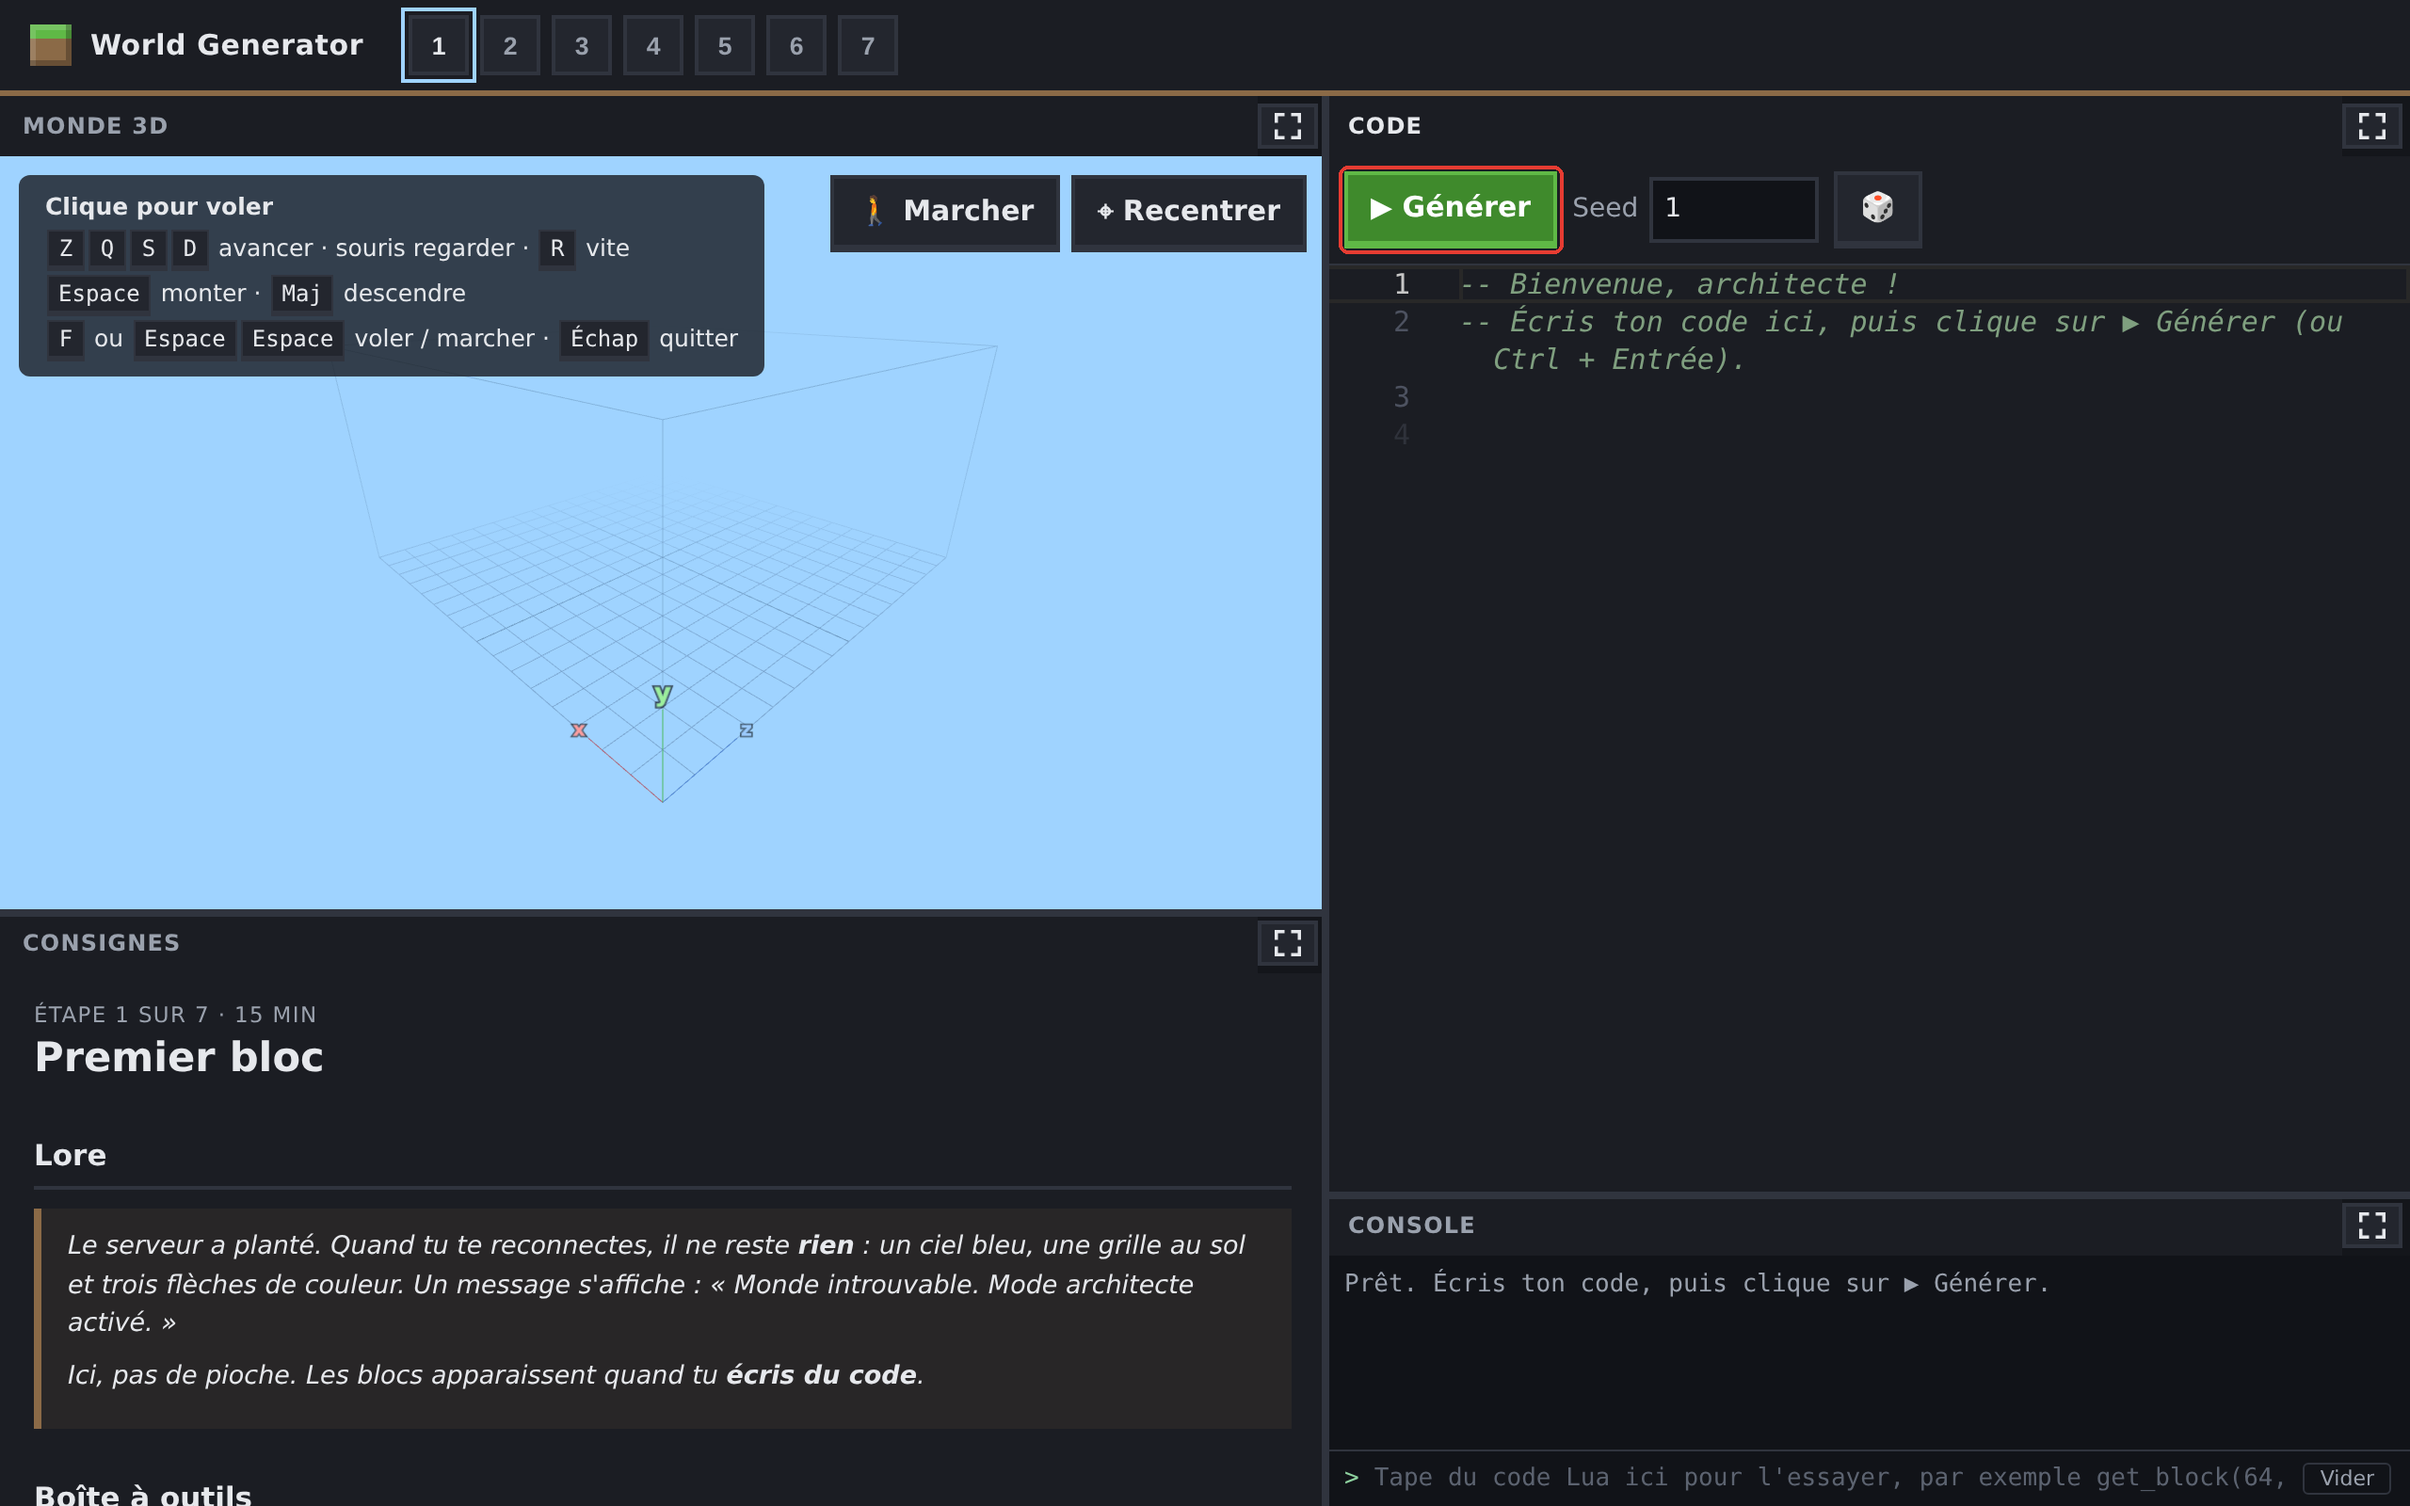
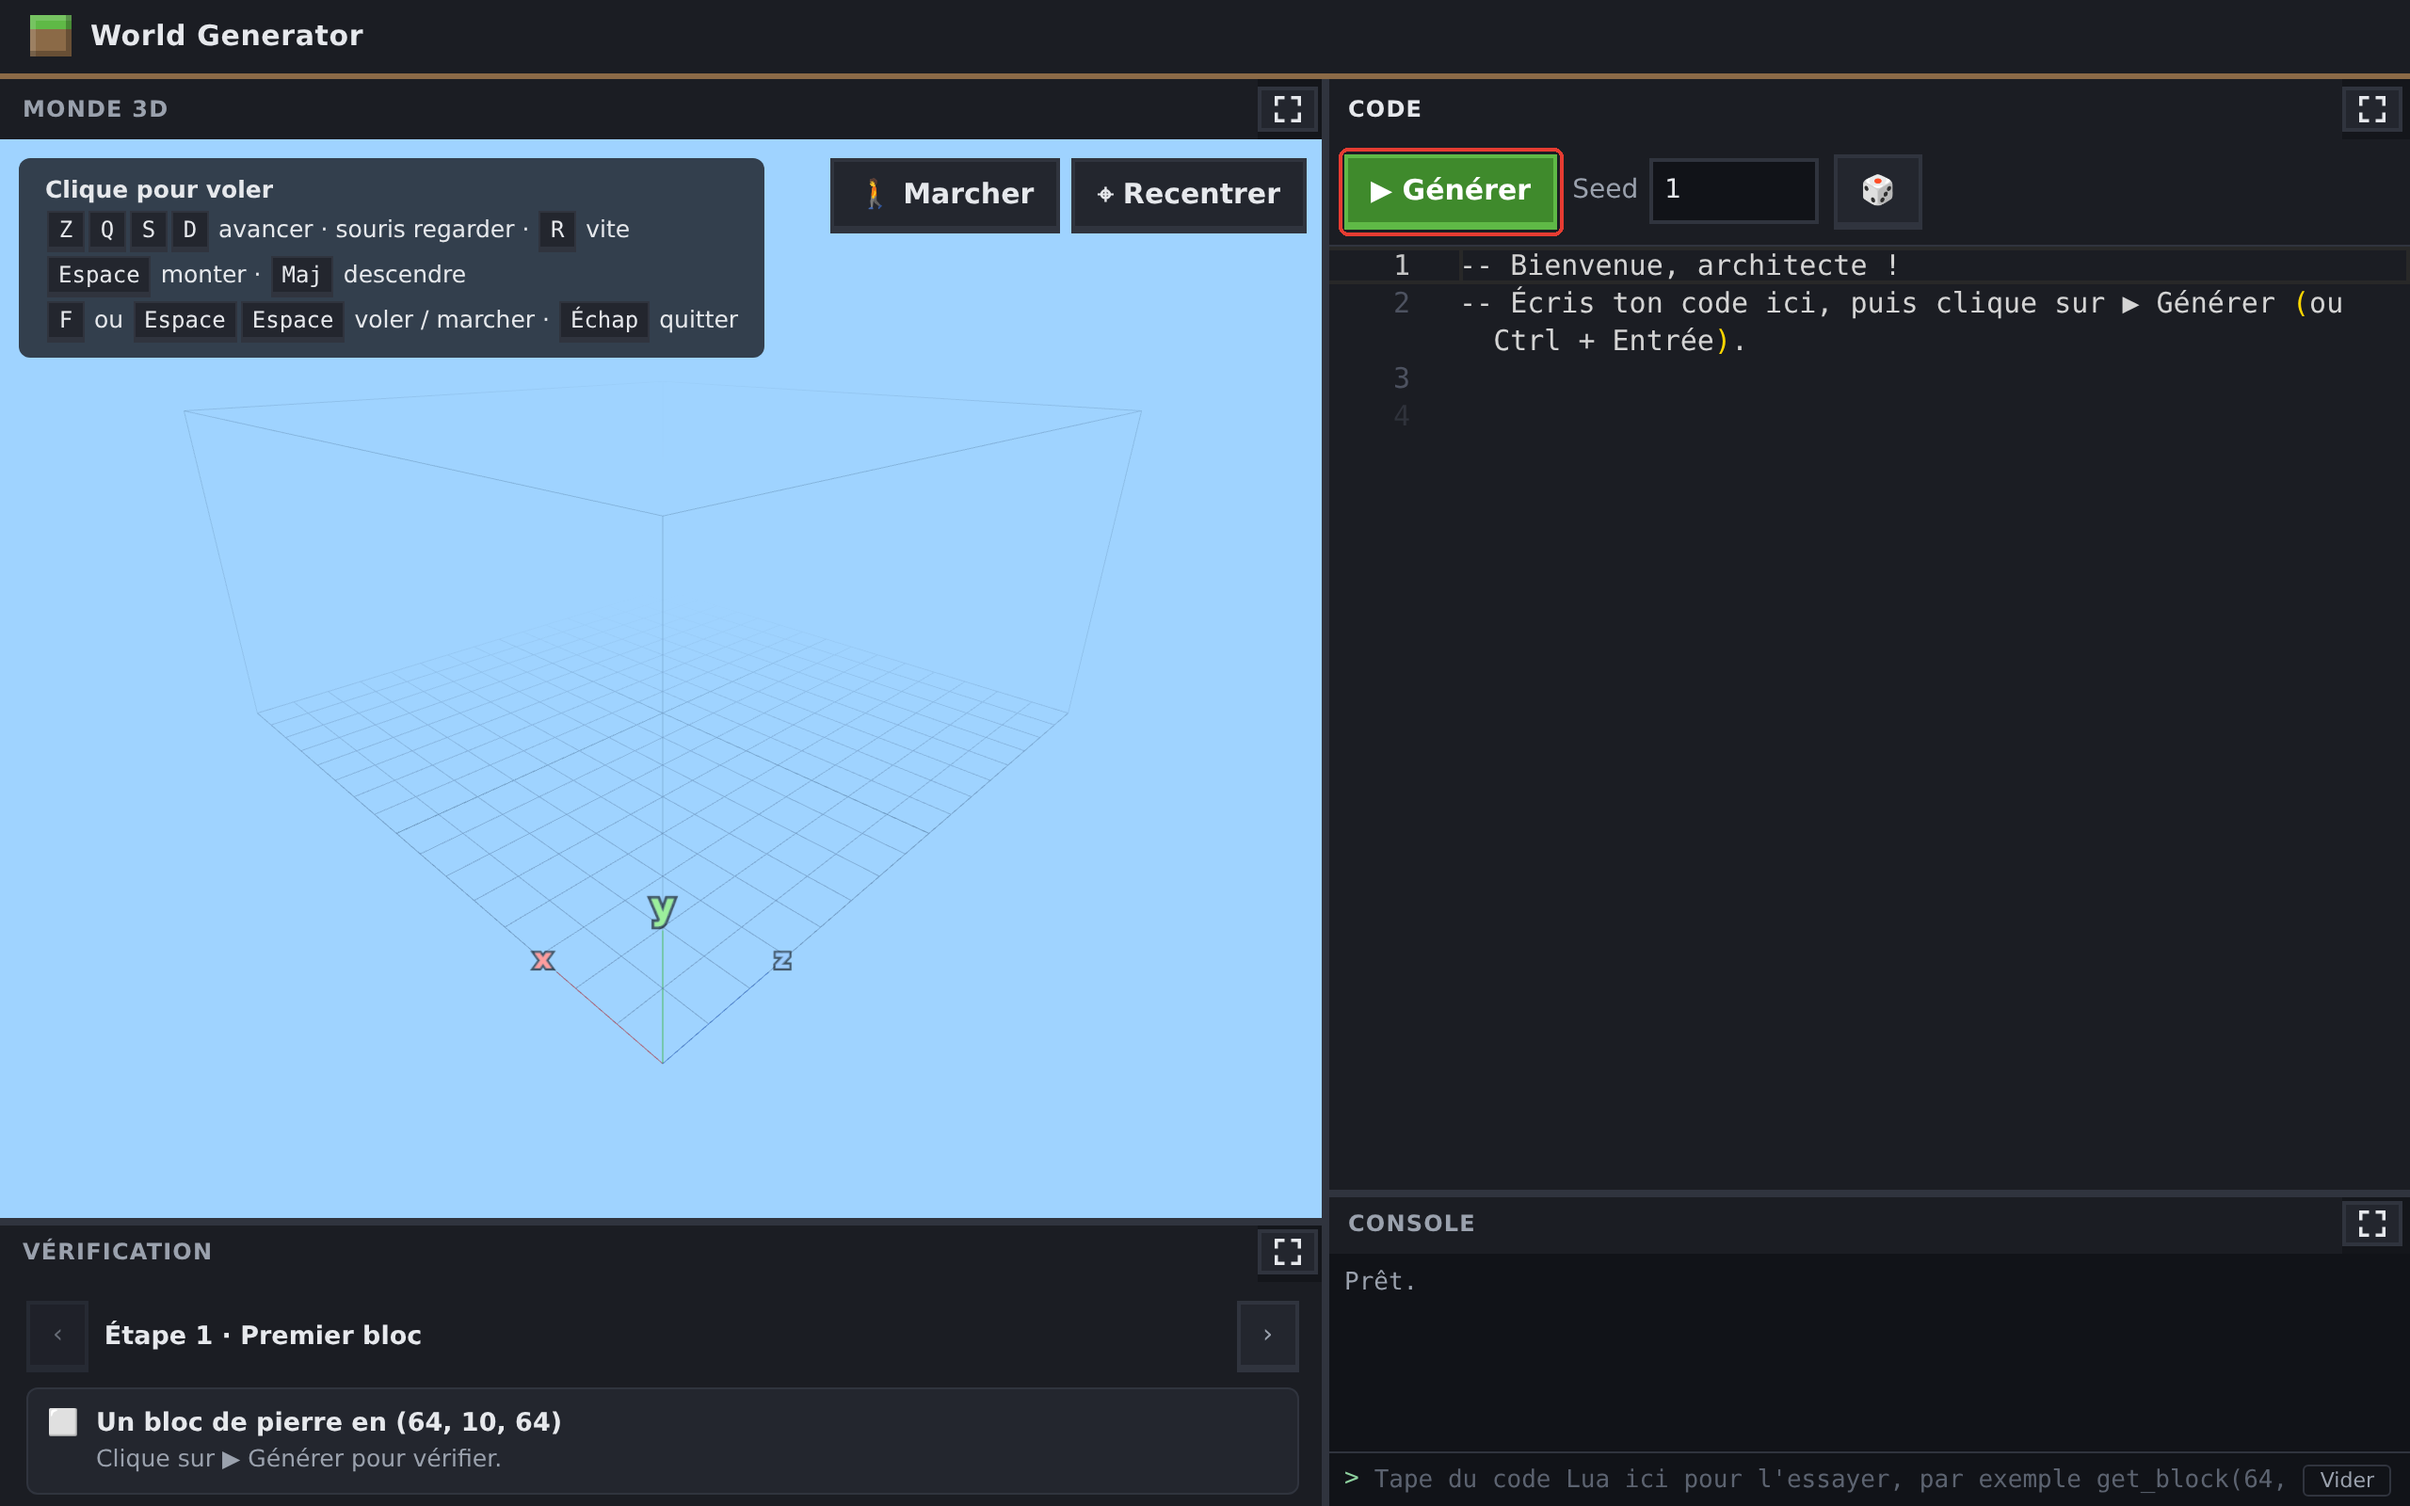
Capture : l'interface avec le panneau Vérification

diff --git a/intro.md b/intro.md
@@ -14,6 +14,6 @@ Rien à installer : tout se passe dans ton navigateur, à côté de ces instruct
 3. Le bouton **▶ Générer** (ou <kbd>Ctrl</kbd> + <kbd>Entrée</kbd>) exécute ton code, construit le monde et vérifie le défi de l'étape.
 4. Quand toutes les vérifications passent au vert, le monde t'affiche un code de validation et le recopie dans la case de l'étape : il ne te reste qu'à valider.
 
-![À gauche le monde en 3D et, dessous, le sujet de l'étape. À droite l'éditeur de code et, dessous, la console. Le bouton Générer, encadré, construit le monde et vérifie le défi.](img/interface.png)
+![À gauche le monde en 3D et, dessous, la vérification de l'étape. À droite l'éditeur de code et, dessous, la console. Le bouton Générer, encadré, construit le monde et vérifie le défi.](img/interface.png)
 
 Chaque étape te raconte un bout d'histoire, te donne les outils dont tu as besoin, te prévient des pièges, puis te lance un défi. Les indices sont là si tu bloques, et un bonus t'attend quand tu as fini en avance.
